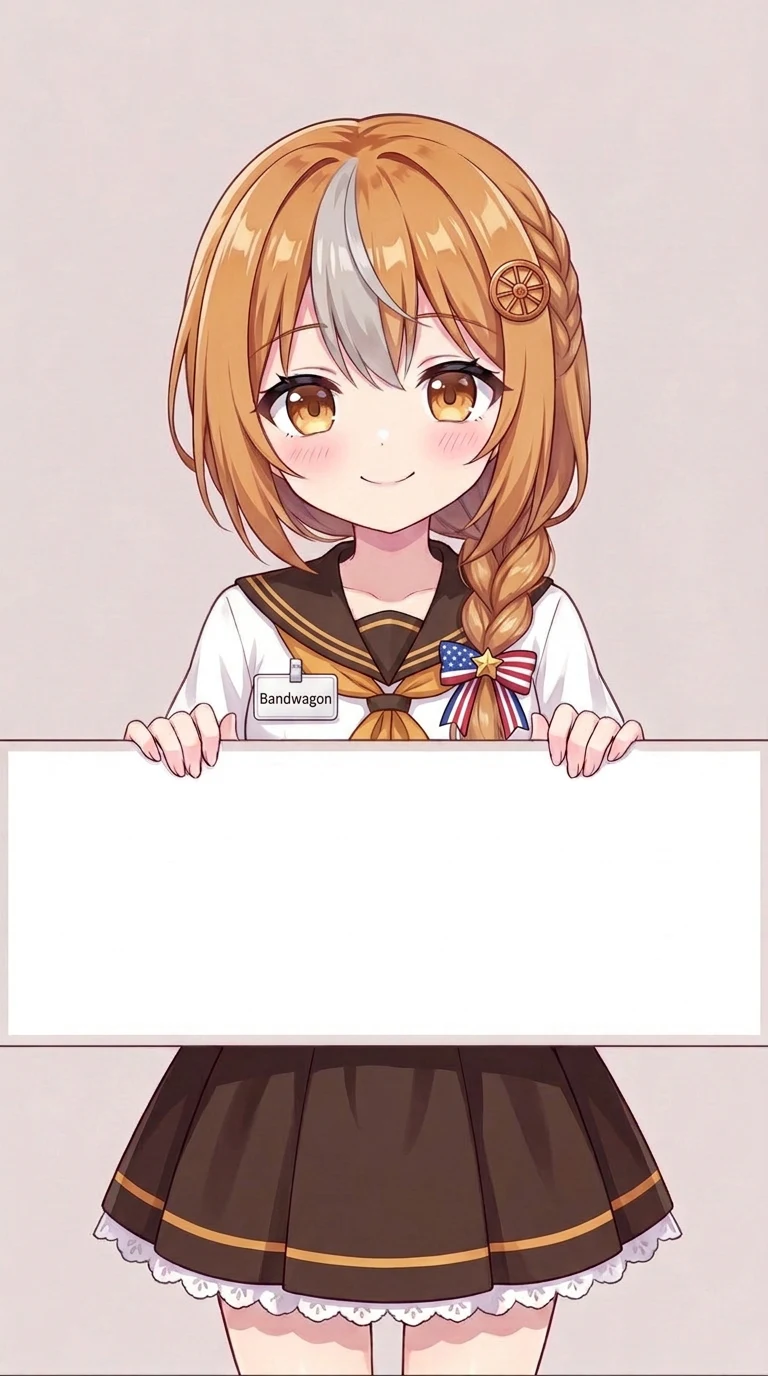
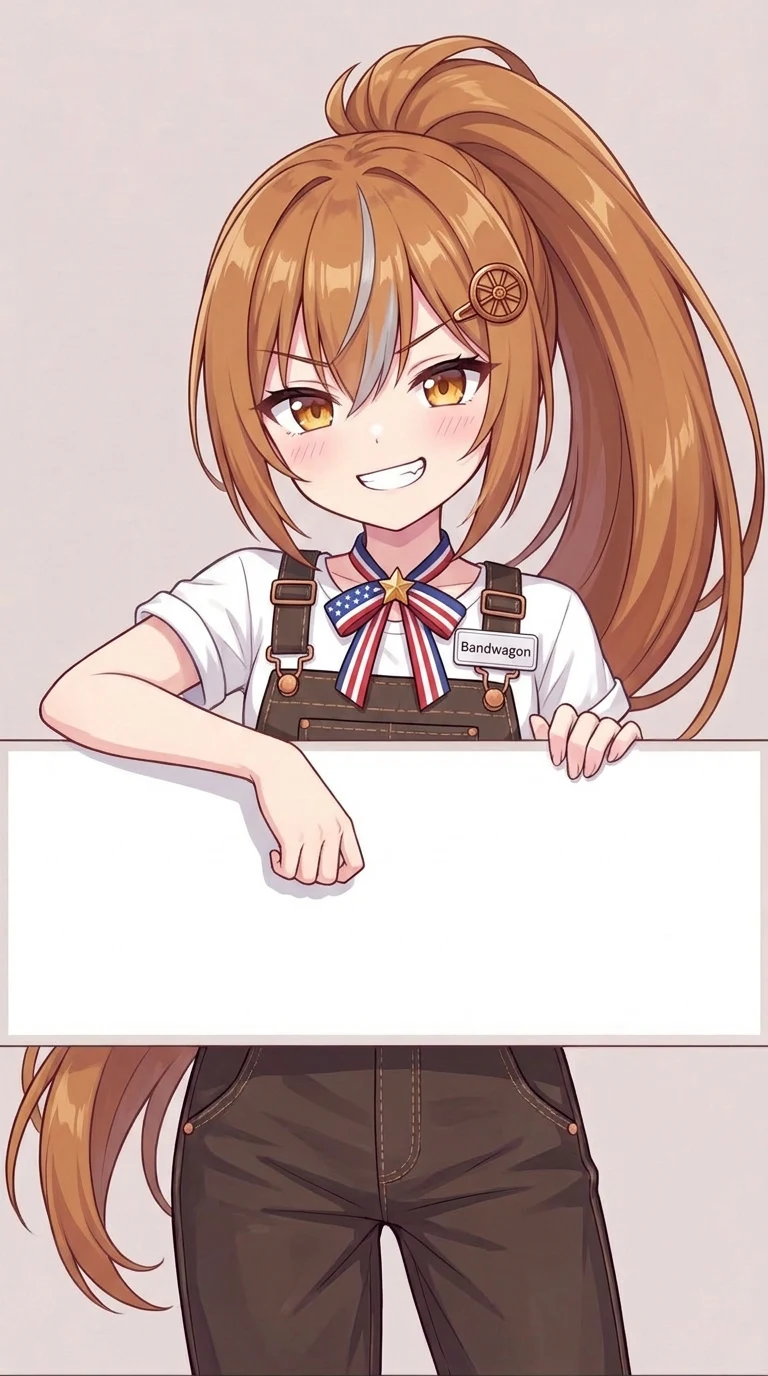
feat(web): 四台线路机的形象各自重做，四张脸不再是一个模子
- 四台都从同一张底图（空牌 + 铭牌 + 同一构图）重画，但把「发型剪影 / 瞳色 / 服装类型 /
  表情 / 姿势」四项全部拉开，横看是四种人、竖看仍是一套画风：
    JP  银白拖腰长直发 + 猫耳 + 紫瞳（唯一兽耳、唯一紫瞳）· 藏青水手服 · 傲娇半眯 + 举拳
    DE  蜂蜜金麻花冠盘发 + 灰绿瞳（唯一盘发、唯一传统服饰）· Dirndl 白衬衫绿胸衣白围裙 · 端庄微笑
    VMISS 栗棕双马尾 + 电蓝挑染 + 圆亮蓝瞳（唯一双马尾、唯一连帽衫）· 白色 techwear 连帽衫
          云朵印花 · 张口大笑 + 挥手
    搬瓦工 琥珀棕高马尾 + 银灰挑染 + 金瞳（唯一高马尾、唯一背带裤）· 深棕工装背带裤 +
          大篷车轮发夹 · 咧嘴露虎牙 + 趴牌
- 立绘是生成的，牌沿像素每台不同（实测 JP 751 / DE 752 / VMISS 751 / 搬瓦工 764）：
  搬瓦工那张按实测比例单独裁（浅色 788、夜版 764），否则会露出十几像素她的背景底色
- anime-cast.js 的 note 改成「这一台独一无二在哪」，方便对照

diff --git a/web/anime-cast.js b/web/anime-cast.js
@@ -12,28 +12,28 @@ export const CAST = {
     line: "Gen.2",
     vendor: "NoSla",
     crew: "家人云",
-    note: "亚太顶尖精品线 → 小天使待遇；NoSla 家人云 → 嘴硬心软的傲娇妹妹，茶给你倒好",
+    note: "Gen.2 亚太精品线 × 家人云；三网回程 CTG / 10099→9929 / CMIN2，61/57/65ms。日本元素 = 樱花簪 + 千鸟格水手领 + 红白缎带；人物 = 银白拖到腰的长直发 + 猫耳 + 紫瞳半眯的傲娇脸（全系列唯一的兽耳、唯一的紫瞳），藏青水手服，胸口「家人」铭牌",
   },
   "de-nosla-fra": {
     id: "de-nosla-fra",
     line: "三网回程 CTG · 10099→9929 · CMIN2",
     vendor: "NoSla",
     crew: "家人云",
-    note: "法兰克福，欧洲线里回程最规整的一条（150–190ms）；德国元素落在黑红金三色缎带、Dirndl 围裙与麻花辫上的椒盐卷饼发夹",
+    note: "法兰克福，欧洲线里回程最规整的一条（150–190ms）。德国元素 = 黑红金缎带 + Dirndl（白衬衫 / 深绿系带胸衣 / 白围裙）+ 麻花辫上的椒盐卷饼发夹；人物 = 蜂蜜金发盘成麻花冠 + 灰绿瞳的端庄微笑（唯一的盘发、唯一传统服饰），胸口「家人」铭牌",
   },
   "us-vmiss-tri": {
     id: "us-vmiss-tri",
     line: "CN2GIA · 10099→9929 · CMIN2",
     vendor: "VMISS",
     crew: "云上飞行",
-    note: "美西三网精品（CN2GIA / 9929 / CMIN2，160ms 上下）；卖家 VMISS 是加拿大公司，官网是蓝白科技风 + 云朵涂鸦 + 亮黄点缀，所以人物做成蓝挑染 + 云朵发夹 + 星条缎带 + 黄星发夹，胸口铭牌写 VMISS",
+    note: "美西三网精品（CN2GIA / 9929 / CMIN2，160ms 上下）。卖家 VMISS 官网是蓝白科技风 + 云朵涂鸦 + 亮黄点缀，人物据此做：栗棕双马尾 + 电蓝挑染 + 圆亮蓝瞳 + 张口大笑挥手（唯一的双马尾、唯一连帽衫、唯一大幅笑容），白色 techwear 连帽衫 + 云朵发夹 + 黄星发夹 + 星条缎带，胸口铭牌写 VMISS",
   },
   "us-bwh-dc9": {
     id: "us-bwh-dc9",
     line: "CN2GIA · 10099→9929 · CMIN2",
     vendor: "BandwagonHost",
     crew: "搬瓦工",
-    note: "洛杉矶 DC9：电信 CN2GIA + 联通 9929 + 移动 CMIN2（159–167ms）；卖家是搬瓦工（BandwagonHost），官网是金黄→琥珀渐变 #FFC107→#F57C00 配深棕/黑与银灰 HOST，吉祥物意象是黑机架 + 金色灯；所以人物做成蜜金发 + 银灰挑染 + 金领巾，配一枚大篷车轮发夹，再叠美国星条缎带，胸口铭牌写 Bandwagon",
+    note: "洛杉矶 DC9：CN2GIA + 9929 + CMIN2（159–167ms）。卖家搬瓦工（BandwagonHost）官网是金黄→琥珀渐变 #FFC107→#F57C00 配深棕/黑与银灰 HOST、黑机架 + 金色灯；人物 = 琥珀棕高马尾 + 银灰挑染 + 金瞳 + 咧嘴露虎牙（唯一的高马尾、唯一工装背带裤、唯一趴在牌上的姿势），深棕背带裤 + 大篷车轮发夹 + 星条缎带 + 金星别针，胸口铭牌写 Bandwagon",
   },
 };
 

diff --git a/web/anime.css b/web/anime.css
@@ -773,3 +773,14 @@ html[data-skin="anime"][data-theme="dark"] .node-card[data-cast="us-bwh-dc9"] {
   --cast-accent-rgb: 224, 166, 60;
   --cast-motif: repeating-linear-gradient(135deg, rgb(224 166 60 / 0.10) 0 5px, transparent 5px 15px);
 }
+
+/* 立绘是生成的，牌沿高度每台会差几个像素（实测：JP 751 / DE 752 / VMISS 751 / 搬瓦工 764）。
+   默认裁切是「浅色 = 775、夜版 = 752」（对应 751–752 这三台），搬瓦工这张牌沿更低，
+   照默认裁会露出十几像素她的背景底色，所以单独按实测比例裁。 */
+html[data-skin="anime"] .anime-stage[data-cast="us-bwh-dc9"] {
+  aspect-ratio: 768 / 788;
+}
+
+html[data-skin="anime"][data-theme="dark"] .anime-stage[data-cast="us-bwh-dc9"] {
+  aspect-ratio: 768 / 764;
+}
